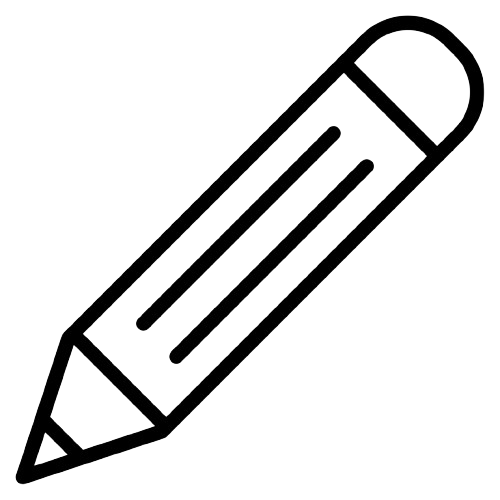
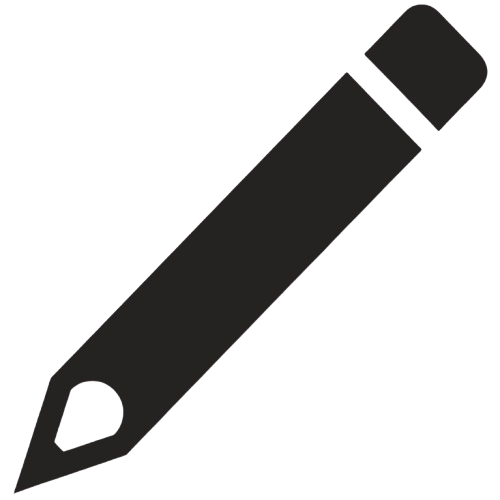
feat: add eraser button and fix html tag/attribute for divs

Changed region(s): [[0.03, 0.0, 0.99, 0.99]]

diff --git a/styles.css b/styles.css
@@ -134,7 +134,7 @@ header {
         padding: 10px 20px;
       }
 
-      div {
+      .container {
         flex: 1 0 0;
 
         padding: 20px 30px;
@@ -145,8 +145,12 @@ header {
       div {
         display: flex;
         flex-wrap: wrap;
+        gap: 8px;
 
         button {
+          display: flex;
+          align-items: center;
+          justify-content: center;
           flex: 0 1 46px;
 
           aspect-ratio: 1 / 1;
@@ -162,9 +166,7 @@ header {
       div {
         div {
           display: flex;
-          gap: 12px;
-
-          padding: 0;
+          gap: 18px;
 
           label {
             padding-top: 2px;

diff --git a/index.html b/index.html
@@ -31,19 +31,20 @@
 
         <div class="ribbon" id="toolbox-settings">
           <h3>Toolbox</h3>
-          <div>
+          <div class="container">
             <button><img src="img/pencil_icon.png" alt="pencil-icon" width="28px" height="28px"></button>
+            <button><img src="img/eraser_icon.png" alt="pencil-icon" width="28px" height="28px"></button>
           </div>
         </div>
 
         <div class="ribbon">
           <h3>Color Palette</h3>
-          <div>Nothing to see here.</div>
+          <div class="container">Nothing to see here.</div>
         </div>
 
         <div class="ribbon" id="canvas-settings">
           <h3>Canvas Settings</h3>
-          <div>
+          <div class="container">
             <div>
               <label for="canvas-size">Canvas Size:</label>
               <div>